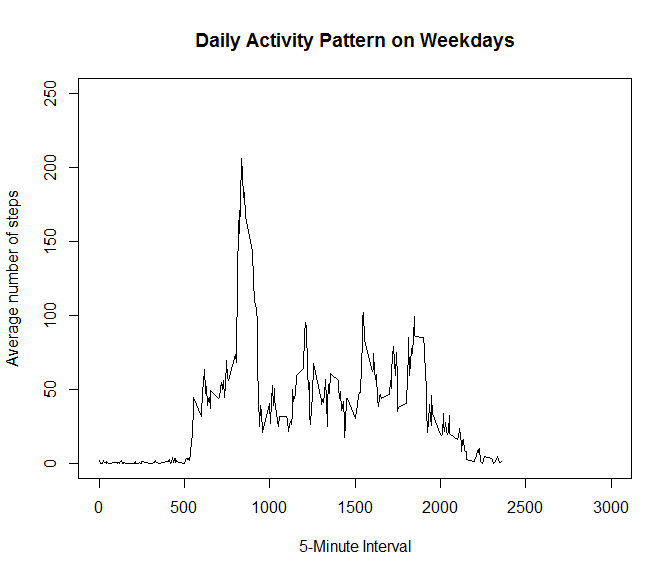
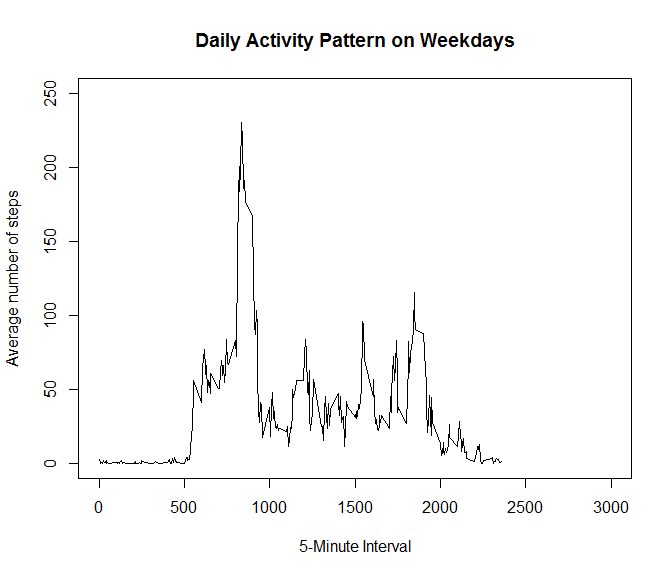
Fixes

diff --git a/PA1_template.html b/PA1_template.html
@@ -76,6 +76,8 @@ img {
 <div id="loading-and-preprocessing-the-data" class="section level2">
 <h2>Loading and preprocessing the data</h2>
 <p>Load input data from a zip file from the current R working directory.</p>
+<pre class="r"><code>Sys.setlocale(&quot;LC_TIME&quot;, &quot;English&quot;)</code></pre>
+<pre><code>## [1] &quot;English_United States.1252&quot;</code></pre>
 <pre class="r"><code>filename &lt;- unzip(&quot;activity.zip&quot;)
 activity &lt;- read.csv(filename, stringsAsFactors = FALSE)
 str(activity)</code></pre>
@@ -150,8 +152,15 @@ perday&lt;-tapply(activity_rm$steps, activity_rm$date, sum)</code></pre>
 act_new[which(is.na(act_new$steps)),1]&lt;-
         dailyact[as.character(act_new[which(is.na(act_new$steps)),3])]
 
-
-sum(is.na(act_new))</code></pre>
+head(act_new)</code></pre>
+<pre><code>##       steps       date interval
+## 1 1.7169811 2012-10-01        0
+## 2 0.3396226 2012-10-01        5
+## 3 0.1320755 2012-10-01       10
+## 4 0.1509434 2012-10-01       15
+## 5 0.0754717 2012-10-01       20
+## 6 2.0943396 2012-10-01       25</code></pre>
+<pre class="r"><code>sum(is.na(act_new))</code></pre>
 <pre><code>## [1] 0</code></pre>
 <pre class="r"><code>perday_new&lt;-tapply(act_new$steps, act_new$date, sum)</code></pre>
 <p>Make a histogram of the total number of steps taken each day.</p>
@@ -191,9 +200,16 @@ str(act_new)</code></pre>
 ##  $ steps   : num  1.717 0.3396 0.1321 0.1509 0.0755 ...
 ##  $ date    : Date, format: &quot;2012-10-01&quot; &quot;2012-10-01&quot; ...
 ##  $ interval: int  0 5 10 15 20 25 30 35 40 45 ...
-##  $ wd      : chr  &quot;lunes&quot; &quot;lunes&quot; &quot;lunes&quot; &quot;lunes&quot; ...</code></pre>
+##  $ wd      : chr  &quot;Monday&quot; &quot;Monday&quot; &quot;Monday&quot; &quot;Monday&quot; ...</code></pre>
 <pre class="r"><code>act_new$fwd&lt;- as.factor(c(&quot;weekend&quot;, &quot;weekday&quot;))
-act_new[act_new$wd == &quot;Sunday&quot; | act_new$wd == &quot;Saturday&quot; ,5]&lt;- factor(&quot;weekend&quot;)
+str(act_new)</code></pre>
+<pre><code>## 'data.frame':    17568 obs. of  5 variables:
+##  $ steps   : num  1.717 0.3396 0.1321 0.1509 0.0755 ...
+##  $ date    : Date, format: &quot;2012-10-01&quot; &quot;2012-10-01&quot; ...
+##  $ interval: int  0 5 10 15 20 25 30 35 40 45 ...
+##  $ wd      : chr  &quot;Monday&quot; &quot;Monday&quot; &quot;Monday&quot; &quot;Monday&quot; ...
+##  $ fwd     : Factor w/ 2 levels &quot;weekday&quot;,&quot;weekend&quot;: 2 1 2 1 2 1 2 1 2 1 ...</code></pre>
+<pre class="r"><code>act_new[act_new$wd == &quot;Sunday&quot; | act_new$wd == &quot;Saturday&quot; ,5]&lt;- factor(&quot;weekend&quot;)
 act_new[!(act_new$wd == &quot;Sunday&quot; | act_new$wd == &quot;Saturday&quot;),5 ]&lt;- factor(&quot;weekday&quot;)
 
 
@@ -202,19 +218,19 @@ act_new_we &lt;- subset(act_new, fwd == &quot;weekend&quot;)
 act_new_wd &lt;- subset(act_new, fwd == &quot;weekday&quot;) 
 
 str(act_new_wd)</code></pre>
-<pre><code>## 'data.frame':    17568 obs. of  5 variables:
+<pre><code>## 'data.frame':    12960 obs. of  5 variables:
 ##  $ steps   : num  1.717 0.3396 0.1321 0.1509 0.0755 ...
 ##  $ date    : Date, format: &quot;2012-10-01&quot; &quot;2012-10-01&quot; ...
 ##  $ interval: int  0 5 10 15 20 25 30 35 40 45 ...
-##  $ wd      : chr  &quot;lunes&quot; &quot;lunes&quot; &quot;lunes&quot; &quot;lunes&quot; ...
+##  $ wd      : chr  &quot;Monday&quot; &quot;Monday&quot; &quot;Monday&quot; &quot;Monday&quot; ...
 ##  $ fwd     : Factor w/ 2 levels &quot;weekday&quot;,&quot;weekend&quot;: 1 1 1 1 1 1 1 1 1 1 ...</code></pre>
 <pre class="r"><code>str(act_new_we)</code></pre>
-<pre><code>## 'data.frame':    0 obs. of  5 variables:
-##  $ steps   : num 
-##  $ date    :Class 'Date'  num(0) 
-##  $ interval: int 
-##  $ wd      : chr 
-##  $ fwd     : Factor w/ 2 levels &quot;weekday&quot;,&quot;weekend&quot;:</code></pre>
+<pre><code>## 'data.frame':    4608 obs. of  5 variables:
+##  $ steps   : num  0 0 0 0 0 0 0 0 0 0 ...
+##  $ date    : Date, format: &quot;2012-10-06&quot; &quot;2012-10-06&quot; ...
+##  $ interval: int  0 5 10 15 20 25 30 35 40 45 ...
+##  $ wd      : chr  &quot;Saturday&quot; &quot;Saturday&quot; &quot;Saturday&quot; &quot;Saturday&quot; ...
+##  $ fwd     : Factor w/ 2 levels &quot;weekday&quot;,&quot;weekend&quot;: 2 2 2 2 2 2 2 2 2 2 ...</code></pre>
 <pre class="r"><code>dailyact_we&lt;-tapply(act_new_we$steps, act_new_we$interval, mean)
 dailyact_wd&lt;-tapply(act_new_wd$steps, act_new_wd$interval, mean)
 par(mfrow=c(2,1))</code></pre>
@@ -223,12 +239,12 @@ par(mfrow=c(2,1))</code></pre>
      main = &quot;Daily Activity Pattern on Weekdays&quot;, ylab = &quot;Average number of steps&quot;,
      xlim =c(0,3000),
      ylim =c(0, 250))</code></pre>
[2 lines of base64/hex data omitted]
 <pre class="r"><code>plot(y = dailyact_we, x = names(dailyact_we), type = &quot;l&quot;, xlab = &quot;5-Minute Interval&quot;, 
      main = &quot;Daily Activity Pattern on Weekends&quot;, ylab = &quot;Average number of steps&quot;, 
      xlim =c(0,3000),
      ylim =c(0, 250))</code></pre>
[2 lines of base64/hex data omitted]
 </div>
 
 

diff --git a/PA1_template.md b/PA1_template.md
@@ -15,6 +15,14 @@ Load input data from a zip file from the current R working directory.
 
 
 ```r
+Sys.setlocale("LC_TIME", "English")
+```
+
+```
+## [1] "English_United States.1252"
+```
+
+```r
 filename <- unzip("activity.zip")
 activity <- read.csv(filename, stringsAsFactors = FALSE)
 str(activity)
@@ -158,7 +166,20 @@ act_new <- activity
 act_new[which(is.na(act_new$steps)),1]<-
         dailyact[as.character(act_new[which(is.na(act_new$steps)),3])]
 
+head(act_new)
+```
 
+```
+##       steps       date interval
+## 1 1.7169811 2012-10-01        0
+## 2 0.3396226 2012-10-01        5
+## 3 0.1320755 2012-10-01       10
+## 4 0.1509434 2012-10-01       15
+## 5 0.0754717 2012-10-01       20
+## 6 2.0943396 2012-10-01       25
+```
+
+```r
 sum(is.na(act_new))
 ```
 
@@ -247,11 +268,24 @@ str(act_new)
 ##  $ steps   : num  1.717 0.3396 0.1321 0.1509 0.0755 ...
 ##  $ date    : Date, format: "2012-10-01" "2012-10-01" ...
 ##  $ interval: int  0 5 10 15 20 25 30 35 40 45 ...
-##  $ wd      : chr  "lunes" "lunes" "lunes" "lunes" ...
+##  $ wd      : chr  "Monday" "Monday" "Monday" "Monday" ...
 ```
 
 ```r
 act_new$fwd<- as.factor(c("weekend", "weekday"))
+str(act_new)
+```
+
+```
+## 'data.frame':	17568 obs. of  5 variables:
+##  $ steps   : num  1.717 0.3396 0.1321 0.1509 0.0755 ...
+##  $ date    : Date, format: "2012-10-01" "2012-10-01" ...
+##  $ interval: int  0 5 10 15 20 25 30 35 40 45 ...
+##  $ wd      : chr  "Monday" "Monday" "Monday" "Monday" ...
+##  $ fwd     : Factor w/ 2 levels "weekday","weekend": 2 1 2 1 2 1 2 1 2 1 ...
+```
+
+```r
 act_new[act_new$wd == "Sunday" | act_new$wd == "Saturday" ,5]<- factor("weekend")
 act_new[!(act_new$wd == "Sunday" | act_new$wd == "Saturday"),5 ]<- factor("weekday")
 
@@ -264,11 +298,11 @@ str(act_new_wd)
 ```
 
 ```
-## 'data.frame':	17568 obs. of  5 variables:
+## 'data.frame':	12960 obs. of  5 variables:
 ##  $ steps   : num  1.717 0.3396 0.1321 0.1509 0.0755 ...
 ##  $ date    : Date, format: "2012-10-01" "2012-10-01" ...
 ##  $ interval: int  0 5 10 15 20 25 30 35 40 45 ...
-##  $ wd      : chr  "lunes" "lunes" "lunes" "lunes" ...
+##  $ wd      : chr  "Monday" "Monday" "Monday" "Monday" ...
 ##  $ fwd     : Factor w/ 2 levels "weekday","weekend": 1 1 1 1 1 1 1 1 1 1 ...
 ```
 
@@ -277,12 +311,12 @@ str(act_new_we)
 ```
 
 ```
-## 'data.frame':	0 obs. of  5 variables:
-##  $ steps   : num 
-##  $ date    :Class 'Date'  num(0) 
-##  $ interval: int 
-##  $ wd      : chr 
-##  $ fwd     : Factor w/ 2 levels "weekday","weekend":
+## 'data.frame':	4608 obs. of  5 variables:
+##  $ steps   : num  0 0 0 0 0 0 0 0 0 0 ...
+##  $ date    : Date, format: "2012-10-06" "2012-10-06" ...
+##  $ interval: int  0 5 10 15 20 25 30 35 40 45 ...
+##  $ wd      : chr  "Saturday" "Saturday" "Saturday" "Saturday" ...
+##  $ fwd     : Factor w/ 2 levels "weekday","weekend": 2 2 2 2 2 2 2 2 2 2 ...
 ```
 
 ```r
